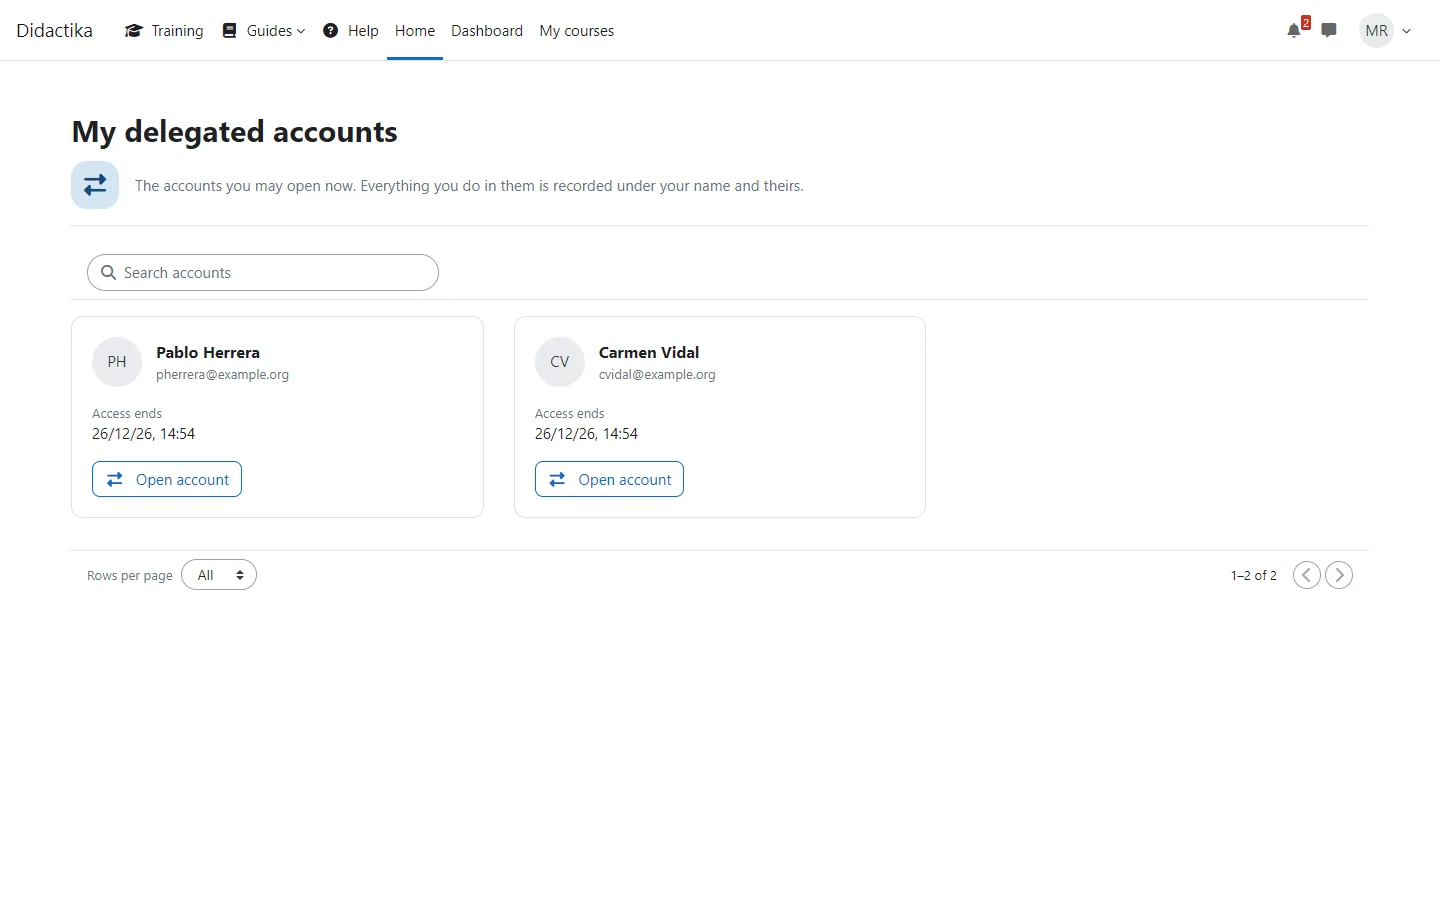
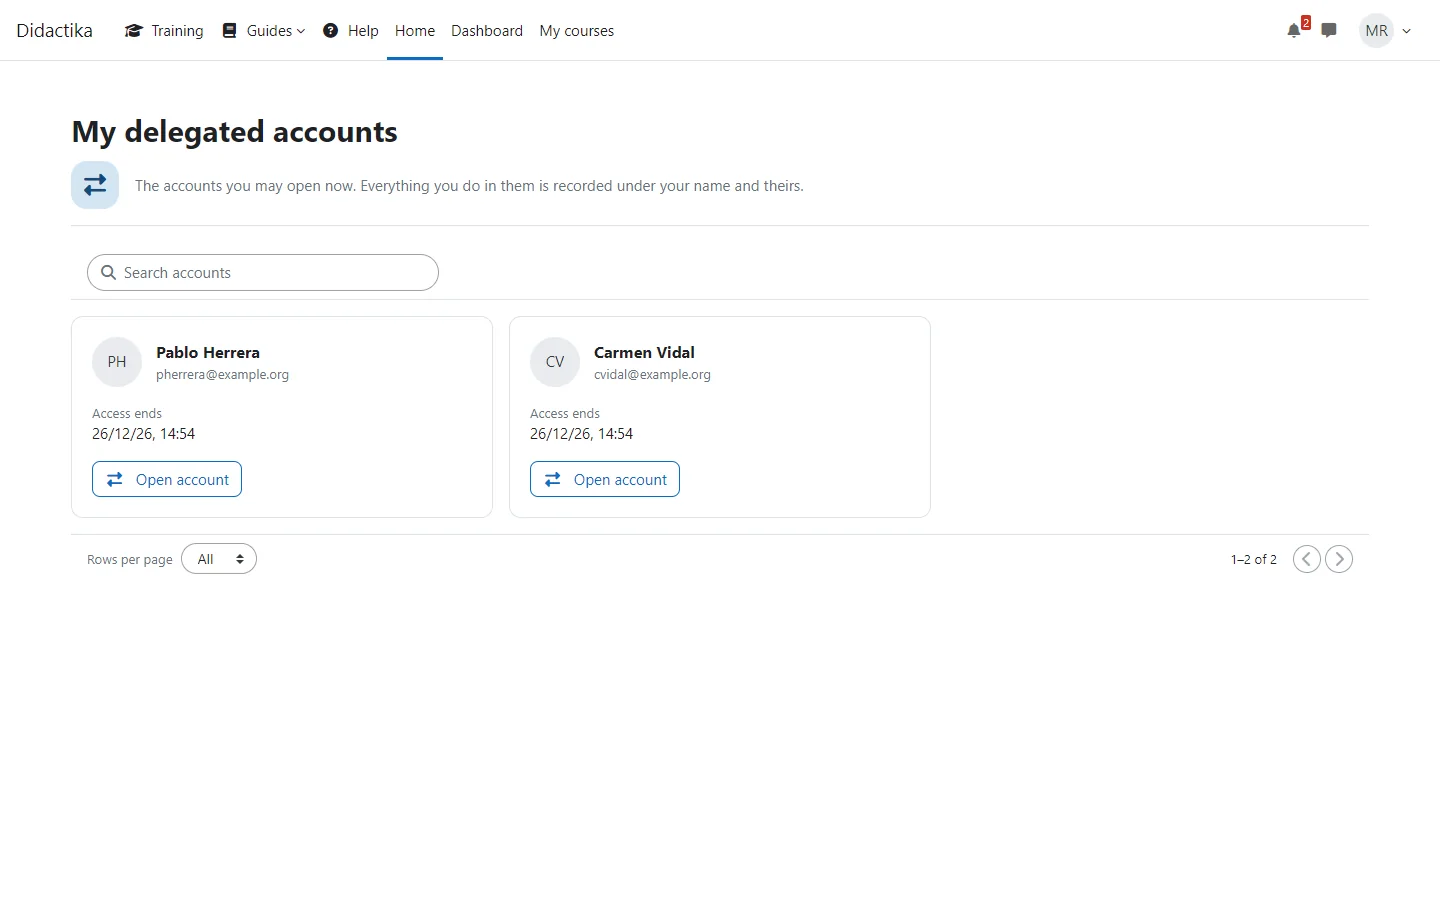
fix: the cards of the delegated accounts stay inside a narrow screen
A stack of the page is one column as wide as its box, so a long email with an ellipsis no longer
widens it, and the cards are a grid with a gap instead of a row with negative margins.

diff --git a/scss/_chrome.scss b/scss/_chrome.scss
@@ -12,6 +12,12 @@
     gap: 1.25rem;
     min-width: 0;
 
+    // A stack of the page (d-grid) is one column as wide as its box: a long name or email that ends with an ellipsis never makes it
+    // wider than the screen.
+    & .d-grid {
+        grid-template-columns: minmax(0, 1fr);
+    }
+
     // The cards of a details page: side by side from 992 px, one under the other below. The row of Bootstrap takes its gutters
     // from negative margins that go past the column of a narrow page; a grid with a gap keeps the cards inside it.
     & > [data-region="cards"].row {
@@ -30,6 +36,30 @@
 
         @media (min-width: 992px) {
             grid-template-columns: repeat(2, minmax(0, 1fr));
+        }
+    }
+
+    // The cards of the accounts a person may open: one column on a phone, two from 576 px and three from 1200 px, in a grid with a
+    // gap, so no negative margin of the row of Bootstrap goes past the page.
+    & [data-region="account-cards"].row {
+        display: grid;
+        grid-template-columns: minmax(0, 1fr);
+        gap: 1rem;
+        margin: 0;
+
+        & > li {
+            width: auto;
+            max-width: none;
+            margin: 0;
+            padding: 0;
+        }
+
+        @media (min-width: 576px) {
+            grid-template-columns: repeat(2, minmax(0, 1fr));
+        }
+
+        @media (min-width: 1200px) {
+            grid-template-columns: repeat(3, minmax(0, 1fr));
         }
     }
 

diff --git a/styles.css b/styles.css
@@ -301,6 +301,10 @@
     min-width: 0;
 }
 
+.lda .d-grid {
+    grid-template-columns: minmax(0, 1fr);
+}
+
 .lda > [data-region=cards].row {
     display: grid;
     grid-template-columns: minmax(0, 1fr);
@@ -319,6 +323,34 @@
 
     .lda > [data-region=cards].row {
         grid-template-columns: repeat(2, minmax(0, 1fr));
+    }
+}
+
+.lda [data-region=account-cards].row {
+    display: grid;
+    grid-template-columns: minmax(0, 1fr);
+    gap: 1rem;
+    margin: 0;
+}
+
+.lda [data-region=account-cards].row > li {
+    width: auto;
+    max-width: none;
+    margin: 0;
+    padding: 0;
+}
+
+@media (min-width: 576px) {
+
+    .lda [data-region=account-cards].row {
+        grid-template-columns: repeat(2, minmax(0, 1fr));
+    }
+}
+
+@media (min-width: 1200px) {
+
+    .lda [data-region=account-cards].row {
+        grid-template-columns: repeat(3, minmax(0, 1fr));
     }
 }
 

diff --git a/CHANGELOG.md b/CHANGELOG.md
@@ -20,6 +20,7 @@ and this project adheres to [Semantic Versioning](https://semver.org/spec/v2.0.0
 - A long name ends with an ellipsis in the user menu, in the cards of the accounts and in the fixed column of a list on a narrow screen, so nothing scrolls sideways.
 - An empty list keeps the height of the list and its pager, and the two people of a delegation show their pictures at the same size.
 - The dates of the dialogs keep even gaps on a narrow screen, and a clicked button, checkbox or switch shows no halo.
+- The cards of "My delegated accounts" stay inside a narrow screen, whatever the length of an email, with even gaps between them.
 
 ## [1.2.0-m405] - 2026-11-11
 
